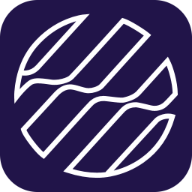
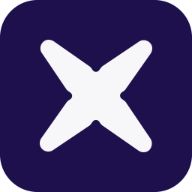
feat(app): re-branded

Changed region(s): [[0.0625, 0.0625, 0.9375, 0.9375]]

diff --git a/src/components/Logo/Logo.tsx b/src/components/Logo/Logo.tsx
@@ -40,7 +40,7 @@ export const Logo = ({ fontSizeMobile, fontSizeDesktop, ...props }: ILogo & ISvg
     <StyledLogo ownerState={ownerState} {...props}>
       <BlueprintIcon className='logoIcon' {...props} />
       <Typography className='logoName' variant='h6' component={'span'}>
-        Blueprint
+        Xcode
       </Typography>
     </StyledLogo>
   );

diff --git a/src/pages/index.tsx b/src/pages/index.tsx
@@ -7,7 +7,7 @@ const Home: NextPage = () => {
   return (
     <div className={styles.container}>
       <Head>
-        <title>Blueprint</title>
+        <title>Xcode</title>
         <meta name='description' content='Generated by create next app' />
         <meta name='theme-color' content='#F7FAFC' />
         <link rel='icon' href='/favicon.ico' />

diff --git a/README.md b/README.md
@@ -1,13 +1,17 @@
-# Blueprint
+![initials logo](/public/android-chrome-192x192.png 'initials logo')
 
-A webb-app created to help you in keeping your finance in check.
+# Xcost
 
-### Getting Started
+Spreadsheet no more! Xcost gets the job done in a more elegant way.
+
+---
 
 This is a [Next.js](https://nextjs.org/) project bootstrapped with [`create-next-app`](https://github.com/vercel/next.js/tree/canary/packages/create-next-app).
 
-First, run the development server:
+## Available Scripts
 
-```bash
-yarn dev
-```
+In the project directory, you can run:
+
+### `npm start`
+
+Open [http://localhost:3000](http://localhost:3000) with your browser to see the result.
